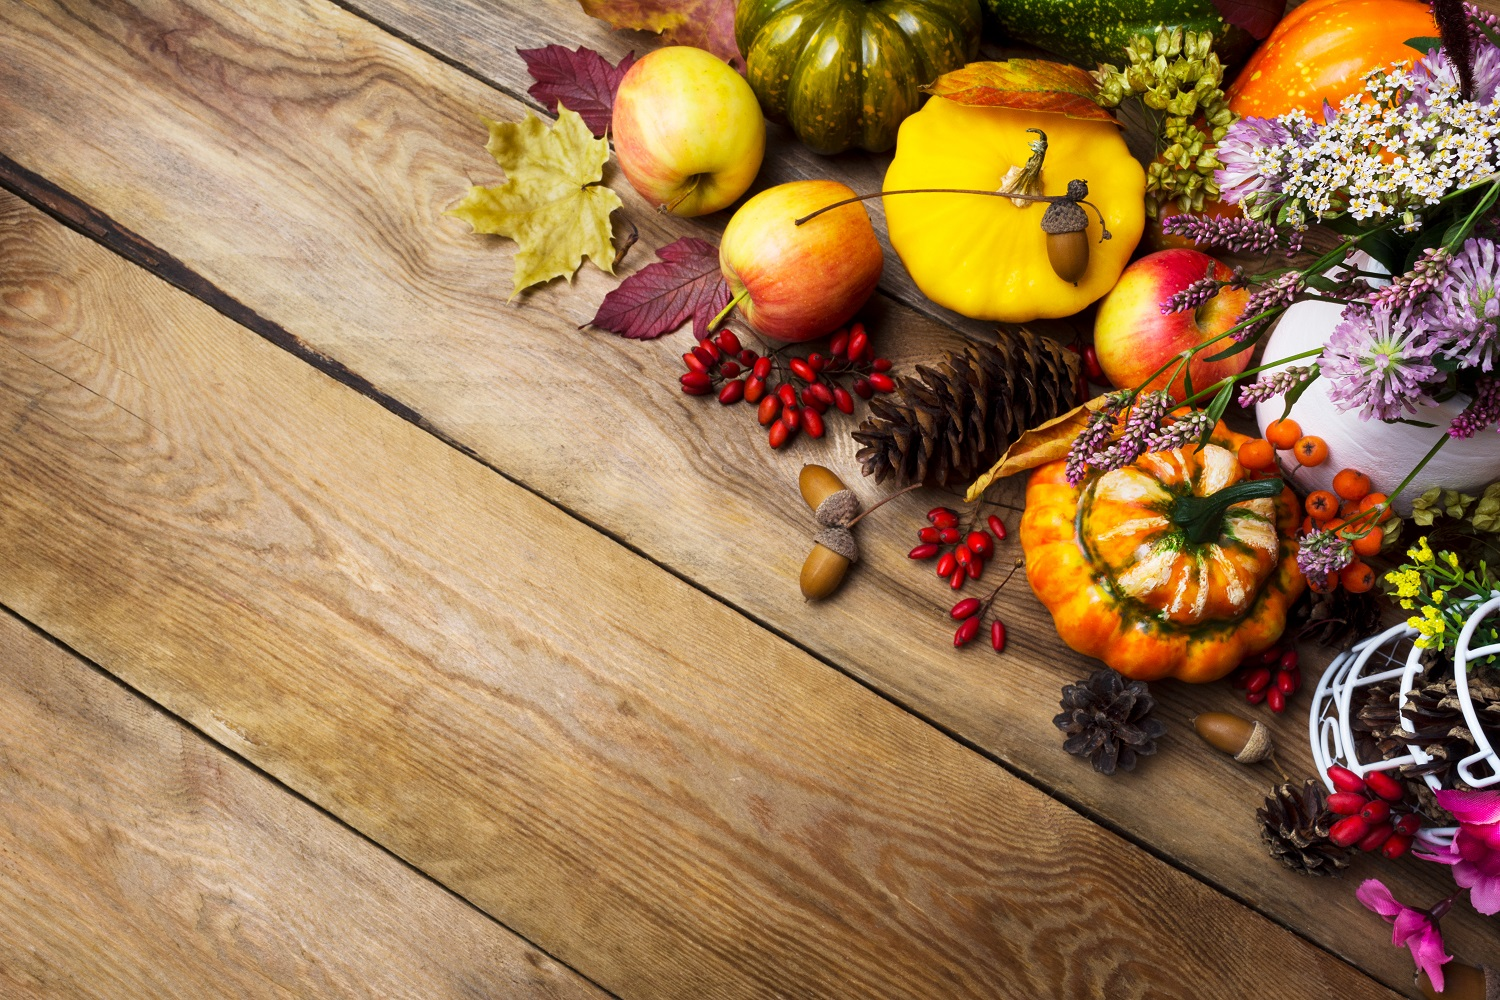
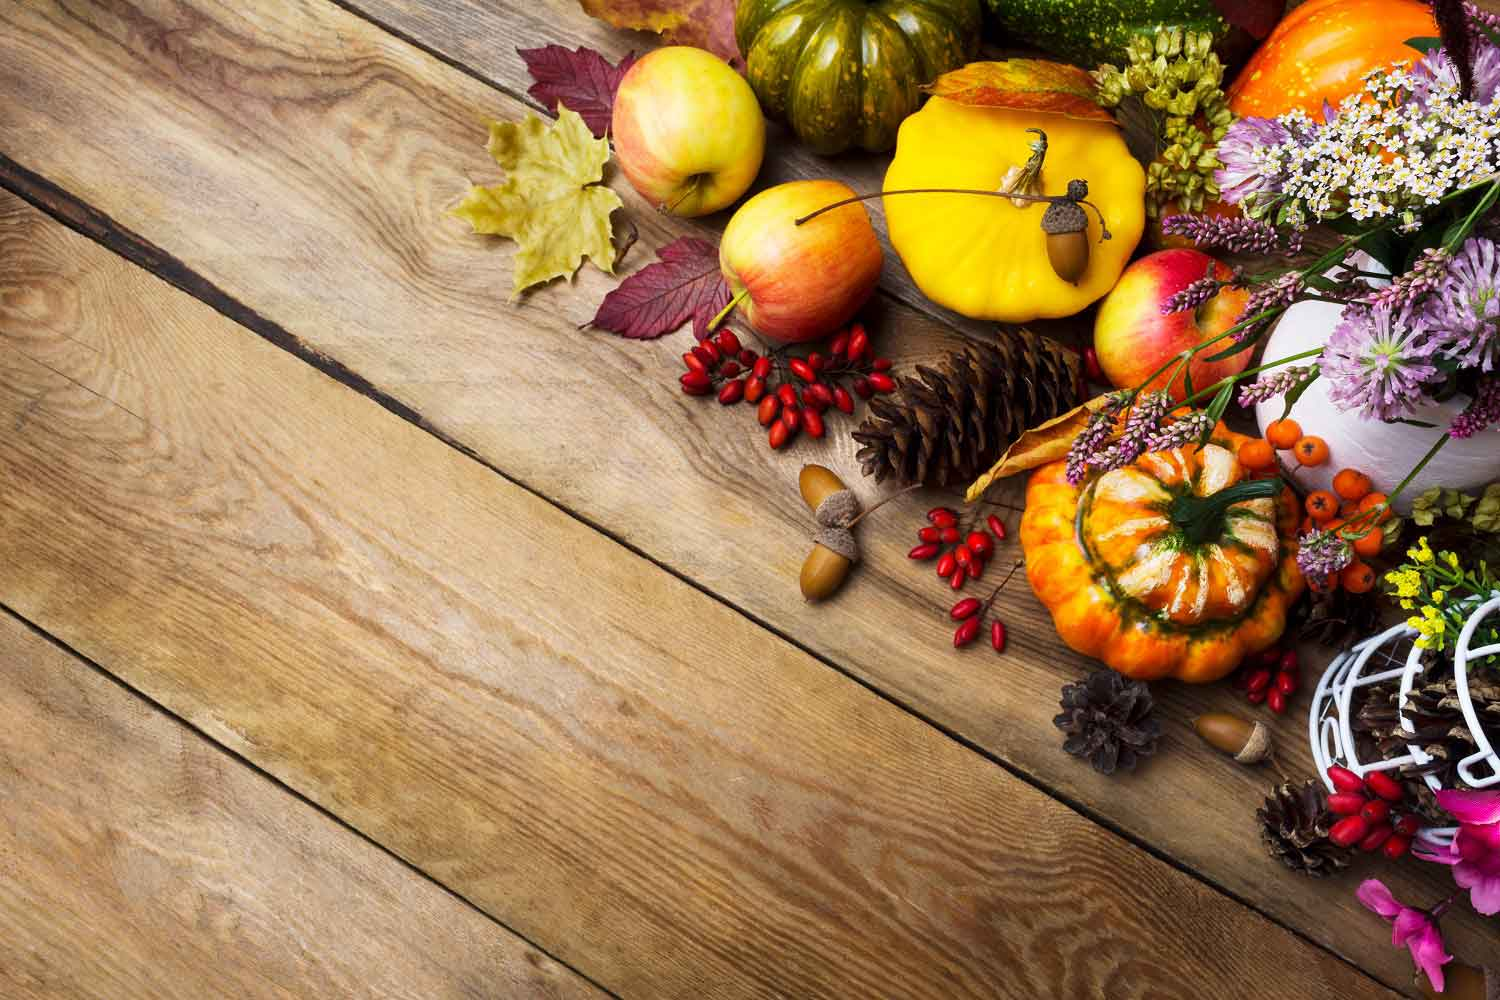
menu

diff --git a/style.css b/style.css
@@ -1,13 +1,14 @@
  body {
     margin: 0;
+     position:relative;
     background:  url("img/bckg.jpg");
     background-color: #3d2b1f;
     color: antiquewhite;
-    background-repeat: round;
-    background-position: left top;
+    background-repeat: no-repeat;
+    background-position: right top;
     background-attachment: fixed;
     background-size: contain;
-    font-family: 'Caveat', cursive;
+    font-family: 'Playfair Display', serif;
     font-size: 14px;
     line-height: 26px;
 }
@@ -18,11 +19,63 @@
     border: 1px solid white;
     background: rgba(0,0,0,0.1);
 }
-.poem: {
+.poem {
+    display:flex;
     position: absolute;
-    background-color: rgba(0,0,0,0.2);
-    bottom: 10px;
-    left: 5%;
-    padding: 40px;
+    width: 340px;
+    flex-direction: row;
+    flex-basis: auto;
+    align-items:center;
+    margin-top: 0px;
+    padding:20px;
 }
 
+
+.main-menu {
+    width: 180px;
+    padding: 0;
+    margin: 0;
+    list-style: none;
+}
+
+.main-menu a {
+    font:inherit;
+    text-decoration: inherit;
+}
+.main-menu > li {
+    margin-bottom: -1px;
+    border: 1px solid #e5e5e5;
+}
+
+.main-menu a {
+    display: block;
+    padding: 8px 14px;
+    text-decoration: none;
+    color: wheat;
+}
+
+.main-menu a:hover {
+    background: #f5f5f5;
+}
+
+.main-menu > .active > a {
+    color: white;
+    background: #0088cc;
+}
+
+.main-menu ul {
+    margin: 0;
+    padding: 5px 0;
+    padding-left: 30px;
+    list-style: none;
+}
+
+.main-menu li li a {
+    padding: 3px 0;
+    color: black;
+}
+
+.main-menu li li a:hover {
+    text-decoration: underline;
+    background: none;
+}

diff --git a/htmlacademy buckets/menu/menu.css b/htmlacademy buckets/menu/menu.css
@@ -1,0 +1,57 @@
+html,
+body {
+    margin: 0;
+    padding: 0;
+}
+
+body {
+    width: 200px;
+    min-height: 200px;
+    padding: 10px;
+    font-family: "Arial", sans-serif;
+    font-size: 14px;
+    line-height: 1.4;
+    background: #ecf0f1;
+}
+
+.main-menu {
+    list-style: none;
+    padding: 0;
+    background: #2980b9;
+    color: white;
+}
+.main-menu a {
+    background: #2980b9;
+    display: block;
+    padding: 10px 15px;
+    color: white;
+    text-decoration: none;
+}
+.main-menu  li   a {
+        border-bottom: 2px solid #2c3e50;
+}
+.main-menu li li a {
+        border-bottom: none;
+}
+.main-menu li li:first-child {
+    padding-top:10px;
+    background: white;
+}
+.main-menu li li:last-child {
+    padding-bottom:10px;
+    background: white;
+    border-bottom: 2px solid #2c3e50;
+}
+
+.main-menu ul {
+    list-style: none;
+    padding: 0;
+}
+.main-menu ul li a {
+    background:white;
+    color: blue;
+    text-decoration: underline;
+}
+.active > a {
+    background: #1abc9c;
+}

diff --git a/htmlacademy buckets/menu/menu.html b/htmlacademy buckets/menu/menu.html
@@ -1,0 +1,22 @@
+<!DOCTYPE html>
+<head>
+    <meta charset="utf-8">
+        <title>Испытание: многоуровневое меню</title>
+    <link href="menu.css" rel="stylesheet">
+    </head>
+    <body>
+        <ul class="main-menu">
+            <li class="active">
+                <a href="/courses">Курсы</a>
+                <ul>
+                    <li><a href="/courses/4">Знакомство</a></li>
+                    <li><a href="/courses/42">Селекторы</a></li>
+                    <li><a href="/courses/45">Позиционирование</a></li>
+                </ul>
+            </li>
+            <li><a href="/demos">Демонстрации</a></li>
+            <li><a href="/public_profiles">Участники</a></li>
+            <li><a href="/achievments">Достижения</a></li>
+        </ul>
+    </body>
+</body>

diff --git a/index.html b/index.html
@@ -3,7 +3,7 @@
 <head>
     <meta charset="utf-8">
     <link href="style.css" rel="stylesheet">
-    <link href="https://fonts.googleapis.com/css?family=Caveat:400;subset=cyrillic" rel="stylesheet">
+    <link href="https://fonts.googleapis.com/css?family=Playfair+Display;subset=cyrillic" rel="stylesheet">
     <title>Сайт художницы Т.Зверевой</title>
 </head>
 <body>
